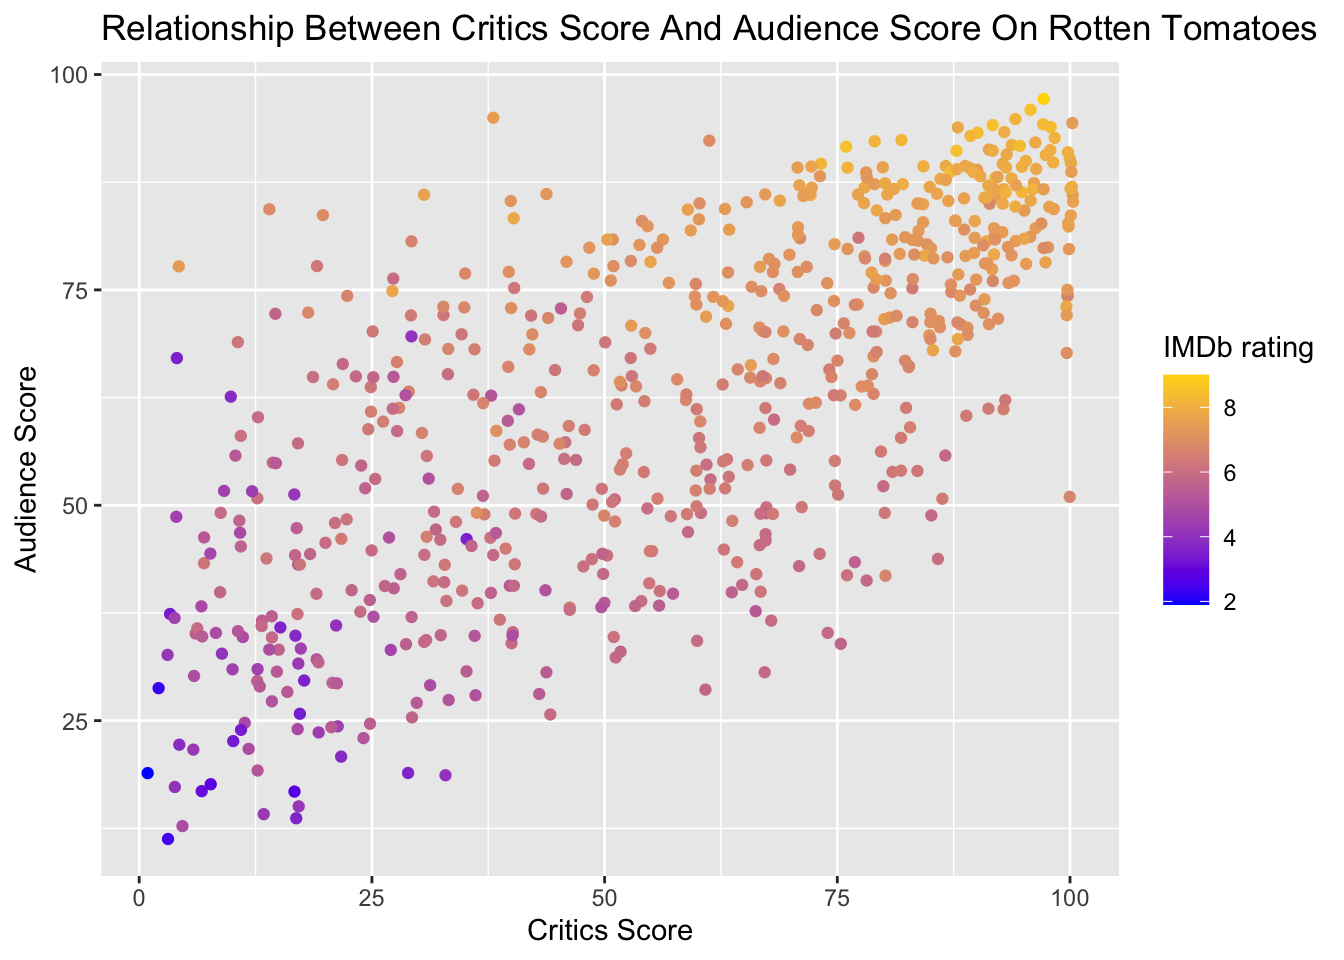
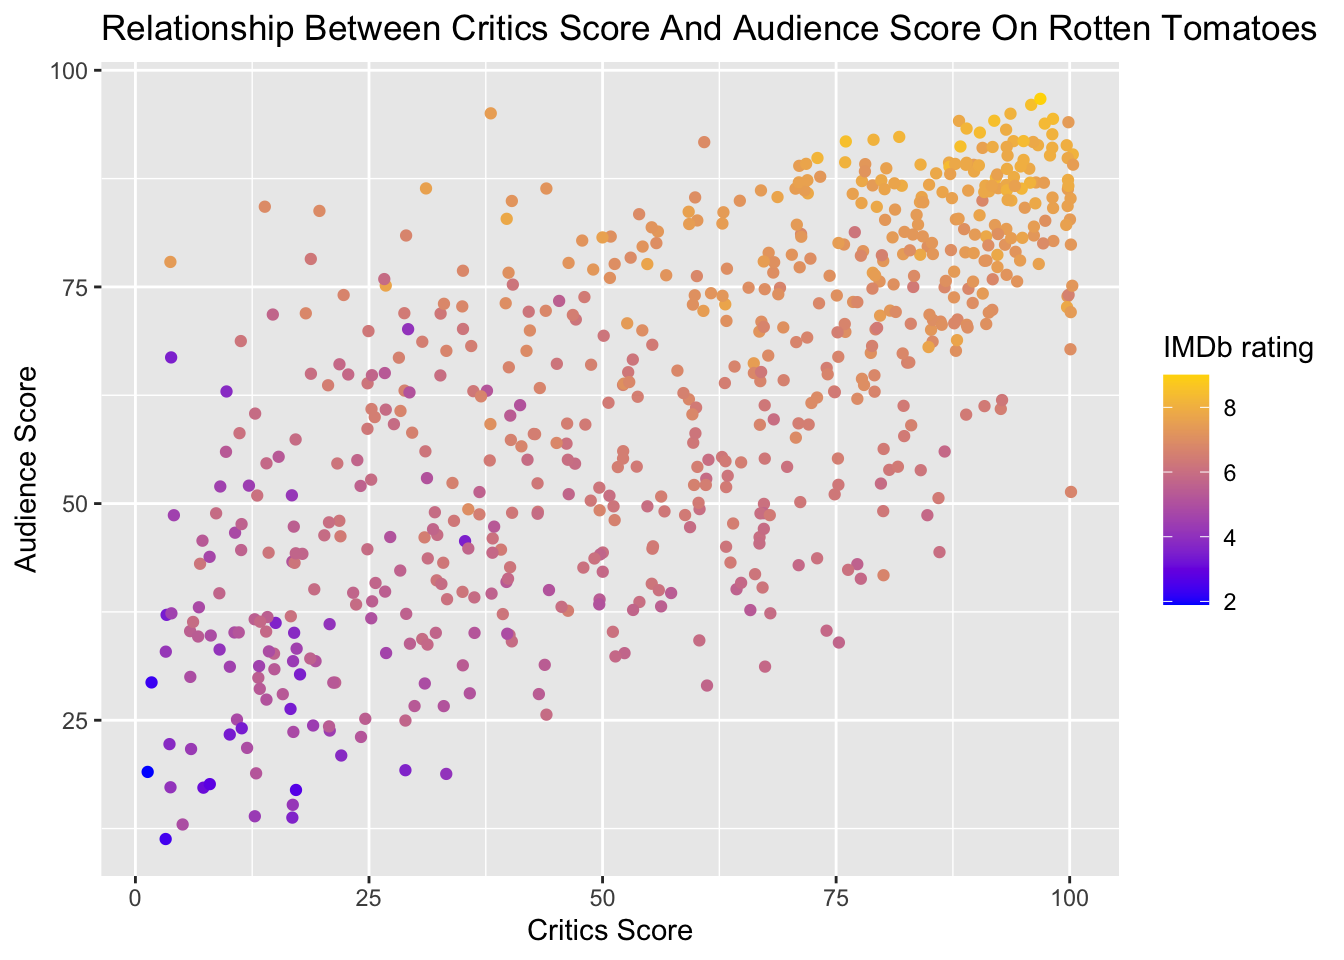
fixed typo

diff --git a/docs/wpa2_solutions.html b/docs/wpa2_solutions.html
@@ -393,130 +393,130 @@ print(my_data)</code></pre>
 my_data$response_times = rnorm(n=20, mean=.8, sd=1)
 print(my_data)</code></pre>
 <pre><code>##    participants conditions participants_cond response_times
-## 1             1          a               1_a    0.983979388
-## 2             2          b               2_b    2.186898301
-## 3             3          a               3_a    1.028013142
-## 4             4          b               4_b    0.780471847
-## 5             5       &lt;NA&gt;              &lt;NA&gt;    1.410407825
-## 6             6          b               6_b    1.353314039
-## 7             7          a               7_a    0.777187735
-## 8             8          b               8_b    0.564643320
-## 9             9          a               9_a    1.299041043
-## 10           10          b              10_b    3.608046075
-## 11           11          a              11_a    1.062713706
-## 12           12          b              12_b    3.091313515
-## 13           13          a              13_a    2.422691702
-## 14           14          b              14_b   -0.002325999
-## 15           15          a              15_a    0.509994736
-## 16           16          b              16_b    2.318920690
-## 17           17          a              17_a    1.849332338
-## 18           18          b              18_b    0.816179846
-## 19           19          a              19_a    0.597849076
-## 20           20          b              20_b    1.454264253</code></pre>
+## 1             1          a               1_a     1.00960977
+## 2             2          b               2_b     0.75613933
+## 3             3          a               3_a     1.14810621
+## 4             4          b               4_b     1.59558656
+## 5             5       &lt;NA&gt;              &lt;NA&gt;     0.13667084
+## 6             6          b               6_b     2.28221779
+## 7             7          a               7_a     0.79982007
+## 8             8          b               8_b     0.01932546
+## 9             9          a               9_a    -1.67876256
+## 10           10          b              10_b     0.09379216
+## 11           11          a              11_a    -1.27401687
+## 12           12          b              12_b     1.63441626
+## 13           13          a              13_a     0.73045978
+## 14           14          b              14_b     0.42951956
+## 15           15          a              15_a     1.13510115
+## 16           16          b              16_b     1.27577248
+## 17           17          a              17_a    -0.51559363
+## 18           18          b              18_b     0.37480032
+## 19           19          a              19_a     1.49565894
+## 20           20          b              20_b     1.96757264</code></pre>
 <pre class="r"><code># task B3
 my_data[my_data$response_times &lt; 0, &quot;response_times&quot;] = 0
 print(my_data)</code></pre>
 <pre><code>##    participants conditions participants_cond response_times
-## 1             1          a               1_a      0.9839794
-## 2             2          b               2_b      2.1868983
-## 3             3          a               3_a      1.0280131
-## 4             4          b               4_b      0.7804718
-## 5             5       &lt;NA&gt;              &lt;NA&gt;      1.4104078
-## 6             6          b               6_b      1.3533140
-## 7             7          a               7_a      0.7771877
-## 8             8          b               8_b      0.5646433
-## 9             9          a               9_a      1.2990410
-## 10           10          b              10_b      3.6080461
-## 11           11          a              11_a      1.0627137
-## 12           12          b              12_b      3.0913135
-## 13           13          a              13_a      2.4226917
-## 14           14          b              14_b      0.0000000
-## 15           15          a              15_a      0.5099947
-## 16           16          b              16_b      2.3189207
-## 17           17          a              17_a      1.8493323
-## 18           18          b              18_b      0.8161798
-## 19           19          a              19_a      0.5978491
-## 20           20          b              20_b      1.4542643</code></pre>
+## 1             1          a               1_a     1.00960977
+## 2             2          b               2_b     0.75613933
+## 3             3          a               3_a     1.14810621
+## 4             4          b               4_b     1.59558656
+## 5             5       &lt;NA&gt;              &lt;NA&gt;     0.13667084
+## 6             6          b               6_b     2.28221779
+## 7             7          a               7_a     0.79982007
+## 8             8          b               8_b     0.01932546
+## 9             9          a               9_a     0.00000000
+## 10           10          b              10_b     0.09379216
+## 11           11          a              11_a     0.00000000
+## 12           12          b              12_b     1.63441626
+## 13           13          a              13_a     0.73045978
+## 14           14          b              14_b     0.42951956
+## 15           15          a              15_a     1.13510115
+## 16           16          b              16_b     1.27577248
+## 17           17          a              17_a     0.00000000
+## 18           18          b              18_b     0.37480032
+## 19           19          a              19_a     1.49565894
+## 20           20          b              20_b     1.96757264</code></pre>
 <pre class="r"><code># task B4
 my_data$log_response_times = log(my_data$response_times)
 print(my_data)</code></pre>
 <pre><code>##    participants conditions participants_cond response_times log_response_times
-## 1             1          a               1_a      0.9839794        -0.01615033
-## 2             2          b               2_b      2.1868983         0.78248424
-## 3             3          a               3_a      1.0280131         0.02762795
-## 4             4          b               4_b      0.7804718        -0.24785661
-## 5             5       &lt;NA&gt;              &lt;NA&gt;      1.4104078         0.34387890
-## 6             6          b               6_b      1.3533140         0.30255643
-## 7             7          a               7_a      0.7771877        -0.25207334
-## 8             8          b               8_b      0.5646433        -0.57156104
-## 9             9          a               9_a      1.2990410         0.26162633
-## 10           10          b              10_b      3.6080461         1.28316637
-## 11           11          a              11_a      1.0627137         0.06082574
-## 12           12          b              12_b      3.0913135         1.12859609
-## 13           13          a              13_a      2.4226917         0.88487920
-## 14           14          b              14_b      0.0000000               -Inf
-## 15           15          a              15_a      0.5099947        -0.67335488
-## 16           16          b              16_b      2.3189207         0.84110186
-## 17           17          a              17_a      1.8493323         0.61482468
-## 18           18          b              18_b      0.8161798        -0.20312055
-## 19           19          a              19_a      0.5978491        -0.51441694
-## 20           20          b              20_b      1.4542643         0.37450010</code></pre>
+## 1             1          a               1_a     1.00960977        0.009563891
+## 2             2          b               2_b     0.75613933       -0.279529623
+## 3             3          a               3_a     1.14810621        0.138113807
+## 4             4          b               4_b     1.59558656        0.467241419
+## 5             5       &lt;NA&gt;              &lt;NA&gt;     0.13667084       -1.990179843
+## 6             6          b               6_b     2.28221779        0.825147687
+## 7             7          a               7_a     0.79982007       -0.223368487
+## 8             8          b               8_b     0.01932546       -3.946331839
+## 9             9          a               9_a     0.00000000               -Inf
+## 10           10          b              10_b     0.09379216       -2.366673997
+## 11           11          a              11_a     0.00000000               -Inf
+## 12           12          b              12_b     1.63441626        0.491285710
+## 13           13          a              13_a     0.73045978       -0.314081107
+## 14           14          b              14_b     0.42951956       -0.845087994
+## 15           15          a              15_a     1.13510115        0.126721770
+## 16           16          b              16_b     1.27577248        0.243551859
+## 17           17          a              17_a     0.00000000               -Inf
+## 18           18          b              18_b     0.37480032       -0.981361864
+## 19           19          a              19_a     1.49565894        0.402566872
+## 20           20          b              20_b     1.96757264        0.676800623</code></pre>
 <pre class="r"><code># task B5
 my_data$correct_response = rbinom(n=20, size=1, prob=.65)
 print(my_data)</code></pre>
 <pre><code>##    participants conditions participants_cond response_times log_response_times correct_response
-## 1             1          a               1_a      0.9839794        -0.01615033                1
-## 2             2          b               2_b      2.1868983         0.78248424                1
-## 3             3          a               3_a      1.0280131         0.02762795                0
-## 4             4          b               4_b      0.7804718        -0.24785661                1
-## 5             5       &lt;NA&gt;              &lt;NA&gt;      1.4104078         0.34387890                1
-## 6             6          b               6_b      1.3533140         0.30255643                1
-## 7             7          a               7_a      0.7771877        -0.25207334                1
-## 8             8          b               8_b      0.5646433        -0.57156104                0
-## 9             9          a               9_a      1.2990410         0.26162633                0
-## 10           10          b              10_b      3.6080461         1.28316637                1
-## 11           11          a              11_a      1.0627137         0.06082574                1
-## 12           12          b              12_b      3.0913135         1.12859609                0
-## 13           13          a              13_a      2.4226917         0.88487920                0
-## 14           14          b              14_b      0.0000000               -Inf                0
-## 15           15          a              15_a      0.5099947        -0.67335488                1
-## 16           16          b              16_b      2.3189207         0.84110186                1
-## 17           17          a              17_a      1.8493323         0.61482468                1
-## 18           18          b              18_b      0.8161798        -0.20312055                0
-## 19           19          a              19_a      0.5978491        -0.51441694                0
-## 20           20          b              20_b      1.4542643         0.37450010                0</code></pre>
+## 1             1          a               1_a     1.00960977        0.009563891                1
+## 2             2          b               2_b     0.75613933       -0.279529623                1
+## 3             3          a               3_a     1.14810621        0.138113807                0
+## 4             4          b               4_b     1.59558656        0.467241419                1
+## 5             5       &lt;NA&gt;              &lt;NA&gt;     0.13667084       -1.990179843                0
+## 6             6          b               6_b     2.28221779        0.825147687                1
+## 7             7          a               7_a     0.79982007       -0.223368487                1
+## 8             8          b               8_b     0.01932546       -3.946331839                0
+## 9             9          a               9_a     0.00000000               -Inf                1
+## 10           10          b              10_b     0.09379216       -2.366673997                1
+## 11           11          a              11_a     0.00000000               -Inf                1
+## 12           12          b              12_b     1.63441626        0.491285710                1
+## 13           13          a              13_a     0.73045978       -0.314081107                0
+## 14           14          b              14_b     0.42951956       -0.845087994                0
+## 15           15          a              15_a     1.13510115        0.126721770                1
+## 16           16          b              16_b     1.27577248        0.243551859                0
+## 17           17          a              17_a     0.00000000               -Inf                1
+## 18           18          b              18_b     0.37480032       -0.981361864                1
+## 19           19          a              19_a     1.49565894        0.402566872                1
+## 20           20          b              20_b     1.96757264        0.676800623                1</code></pre>
 <pre class="r"><code># task B6
 mean(my_data$response_times)</code></pre>
-<pre><code>## [1] 1.405763</code></pre>
+<pre><code>## [1] 0.8442285</code></pre>
 <pre class="r"><code>mean(my_data$correct_response)</code></pre>
-<pre><code>## [1] 0.55</code></pre>
+<pre><code>## [1] 0.7</code></pre>
 <pre class="r"><code># task B7
 data_correct = my_data[my_data$correct_response == 1,]
 data_incorrect = my_data[my_data$correct_response == 0,]
 print(data_correct)</code></pre>
 <pre><code>##    participants conditions participants_cond response_times log_response_times correct_response
-## 1             1          a               1_a      0.9839794        -0.01615033                1
-## 2             2          b               2_b      2.1868983         0.78248424                1
-## 4             4          b               4_b      0.7804718        -0.24785661                1
-## 5             5       &lt;NA&gt;              &lt;NA&gt;      1.4104078         0.34387890                1
-## 6             6          b               6_b      1.3533140         0.30255643                1
-## 7             7          a               7_a      0.7771877        -0.25207334                1
-## 10           10          b              10_b      3.6080461         1.28316637                1
-## 11           11          a              11_a      1.0627137         0.06082574                1
-## 15           15          a              15_a      0.5099947        -0.67335488                1
-## 16           16          b              16_b      2.3189207         0.84110186                1
-## 17           17          a              17_a      1.8493323         0.61482468                1</code></pre>
+## 1             1          a               1_a     1.00960977        0.009563891                1
+## 2             2          b               2_b     0.75613933       -0.279529623                1
+## 4             4          b               4_b     1.59558656        0.467241419                1
+## 6             6          b               6_b     2.28221779        0.825147687                1
+## 7             7          a               7_a     0.79982007       -0.223368487                1
+## 9             9          a               9_a     0.00000000               -Inf                1
+## 10           10          b              10_b     0.09379216       -2.366673997                1
+## 11           11          a              11_a     0.00000000               -Inf                1
+## 12           12          b              12_b     1.63441626        0.491285710                1
+## 15           15          a              15_a     1.13510115        0.126721770                1
+## 17           17          a              17_a     0.00000000               -Inf                1
+## 18           18          b              18_b     0.37480032       -0.981361864                1
+## 19           19          a              19_a     1.49565894        0.402566872                1
+## 20           20          b              20_b     1.96757264        0.676800623                1</code></pre>
 <pre class="r"><code>print(data_incorrect)</code></pre>
 <pre><code>##    participants conditions participants_cond response_times log_response_times correct_response
-## 3             3          a               3_a      1.0280131         0.02762795                0
-## 8             8          b               8_b      0.5646433        -0.57156104                0
-## 9             9          a               9_a      1.2990410         0.26162633                0
-## 12           12          b              12_b      3.0913135         1.12859609                0
-## 13           13          a              13_a      2.4226917         0.88487920                0
-## 14           14          b              14_b      0.0000000               -Inf                0
-## 18           18          b              18_b      0.8161798        -0.20312055                0
-## 19           19          a              19_a      0.5978491        -0.51441694                0
-## 20           20          b              20_b      1.4542643         0.37450010                0</code></pre>
+## 3             3          a               3_a     1.14810621          0.1381138                0
+## 5             5       &lt;NA&gt;              &lt;NA&gt;     0.13667084         -1.9901798                0
+## 8             8          b               8_b     0.01932546         -3.9463318                0
+## 13           13          a              13_a     0.73045978         -0.3140811                0
+## 14           14          b              14_b     0.42951956         -0.8450880                0
+## 16           16          b              16_b     1.27577248          0.2435519                0</code></pre>
 </div>
 </div>
 

diff --git a/docs/wpa2.html b/docs/wpa2.html
@@ -974,15 +974,15 @@ design_final</code></pre>
 </tbody>
 </table>
 <pre class="r"><code>runif(n=10, min=1, max=10)</code></pre>
-<pre><code>##  [1] 4.905753 9.107475 2.649038 6.631567 1.054732 7.931614 6.193834 6.029728 9.532376 6.154946</code></pre>
+<pre><code>##  [1] 4.761806 2.248305 4.427102 4.088711 9.248326 3.486417 9.654511 3.823987 6.791235 8.963100</code></pre>
 <pre class="r"><code>x = rnorm(n=20, mean=20, sd=5)
 
 mean(x)</code></pre>
-<pre><code>## [1] 19.55148</code></pre>
+<pre><code>## [1] 19.2621</code></pre>
 <pre class="r"><code>range(x)</code></pre>
-<pre><code>## [1]  6.970762 31.084679</code></pre>
+<pre><code>## [1] 11.74210 25.14524</code></pre>
 <pre class="r"><code>rbinom(n=6, size=1, prob=.6)</code></pre>
-<pre><code>## [1] 0 1 0 0 1 1</code></pre>
+<pre><code>## [1] 1 1 1 0 1 1</code></pre>
 </div>
 <div id="now-its-your-turn" class="section level1">
 <h1>12. Now it’s your turn</h1>

diff --git a/docs/index.html b/docs/index.html
@@ -508,13 +508,13 @@ t.test(x)</code></pre>
 ##  One Sample t-test
 ## 
 ## data:  x
-## t = 1.849, df = 99, p-value = 0.06744
+## t = -1.021, df = 99, p-value = 0.3097
 ## alternative hypothesis: true mean is not equal to 0
 ## 95 percent confidence interval:
-##  -0.01355321  0.38425940
+##  -0.28517046  0.09140277
 ## sample estimates:
-## mean of x 
-## 0.1853531</code></pre>
+##   mean of x 
+## -0.09688384</code></pre>
 <pre class="r"><code># p = .04
 
 # TASK A4

diff --git a/docs/wpa3.html b/docs/wpa3.html
@@ -320,7 +320,7 @@ $(document).ready(function () {
 <p>At the top of your script, write the following (<strong>with appropriate changes</strong>):</p>
 <pre><code># Assignment: WPA 3
 # Name: Laura Fontanesi
-# Date: 29 March 2021</code></pre>
+# Date: 29 March 2022</code></pre>
 <div id="importing-data" class="section level1">
 <h1>1. Importing data</h1>
 <p>Up to this point, I gave you the code to load datasets in R.</p>
